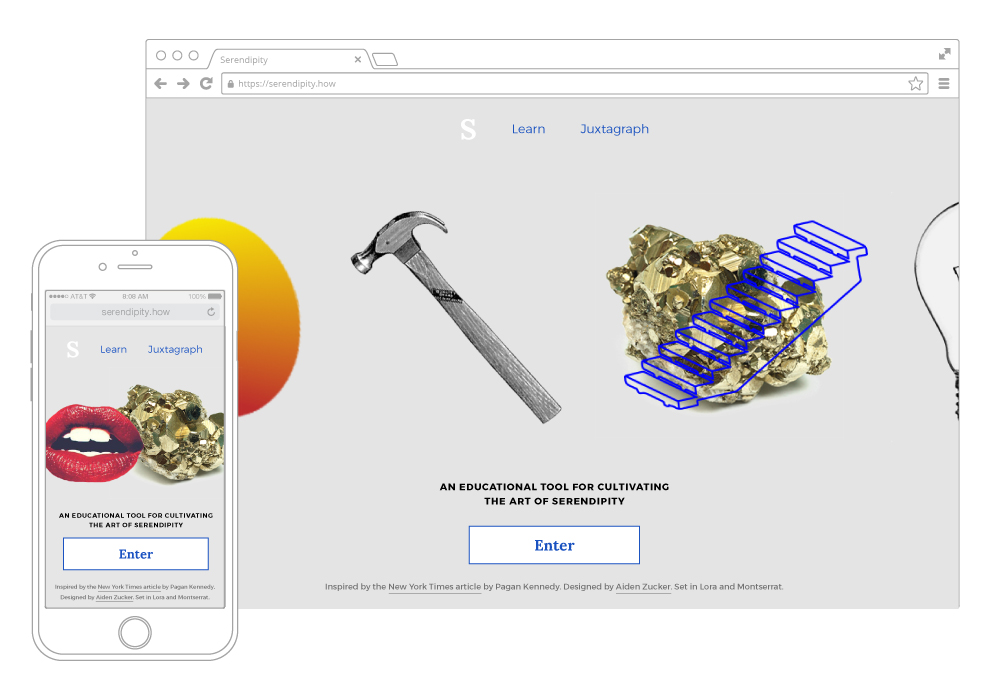
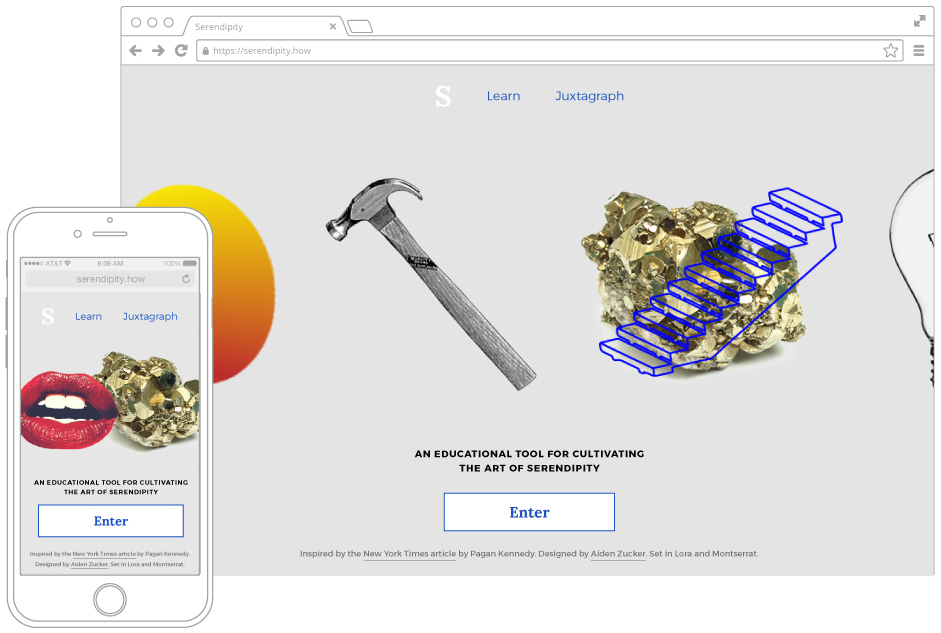
serendipit page has simplified typography to increase engagement. Also better writing

diff --git a/work/serendipity/index copy.html b/work/serendipity/index copy.html
@@ -1,0 +1,223 @@
+<!DOCTYPE html>
+<html>
+	<head>
+	 	<meta http-equiv="content-type" content="text/html; charset=UTF-8">   
+	 	<meta name="viewport" content="width=device-width, initial-scale=1.0"/>
+		<title>Aiden's Portfolio — Serendipity.how</title>
+		<meta name="description" content="Hi Internet, I'm Aiden, a designer">
+	    <meta name="keywords" content="Aiden,Zucker,Portfolio,Design">
+	    <meta name="author" content="Aiden Zucker">
+
+		<link rel="stylesheet" type="text/css" href="../../css/style-v4.css">
+
+		<link href="https://fonts.googleapis.com/css?family=Roboto+Mono|Roboto:300,400,400i,700" rel="stylesheet">
+
+		<link rel="apple-touch-icon" sizes="120x120" href="/apple-touch-icon.png">
+		<link rel="icon" type="image/png" href="/favicon-32x32.png" sizes="32x32">
+		<link rel="icon" type="image/png" href="/favicon-16x16.png" sizes="16x16">
+		<link rel="manifest" href="/manifest.json">
+		<link rel="mask-icon" href="/safari-pinned-tab.svg" color="#3490c5">
+		<meta name="theme-color" content="#3490c5">
+
+		<script>
+  (function(i,s,o,g,r,a,m){i['GoogleAnalyticsObject']=r;i[r]=i[r]||function(){
+  (i[r].q=i[r].q||[]).push(arguments)},i[r].l=1*new Date();a=s.createElement(o),
+  m=s.getElementsByTagName(o)[0];a.async=1;a.src=g;m.parentNode.insertBefore(a,m)
+  })(window,document,'script','https://www.google-analytics.com/analytics.js','ga');
+
+  ga('create', 'UA-38271185-3', 'auto');
+  ga('send', 'pageview');
+		</script>
+
+	</head>
+
+	<body>
+
+		<div class="header">
+			<div class="name">
+				<a href="/">Aiden Zucker</a>
+			</div>
+
+  			<div class="espanol"><a href="https://www.google.com/search?q=pr%C3%B3ximamente&biw=1440&bih=747&source=lnms&tbm=isch&sa=X&ved=0ahUKEwi44bLSwOnLAhXKuIMKHR6OCUoQ_AUIBigB" target="_blank">Español</a></div>
+		</div>
+		
+		<div class="nav-bar">
+			<a href="../poetics-of-space" class="previous-project">
+				<img src="../../img/arrow-left.png" alt="left-arrow">
+				<p>Previous project</p>
+			</a>
+
+			<a href="/" class="all-projects">
+				<img src="../../img/four-tiles-icon.png" alt="4 tiles icon">
+				<p>All work</p>
+			</a>			
+
+			<a href="../start-up-chile" class="next-project">
+				<p>Next project</p>
+				<img src="../../img/arrow-right.png" alt="right-arrow">
+			</a>
+		</div>
+
+
+
+		<div class="project-page-content">
+
+		<div class="cover-photo">
+			<!-- <img src="serendipity-cover.jpg"> -->
+			<img src="cover-photo-serendipity.jpg">
+		</div>
+
+<!-- 		<div class="project-name" id="serendipity-color">Serendipity.how</div>
+ -->		<!-- <div class="project-blurb">Experimental website and tool for thinking about serendipity in a new way</div> -->
+
+		<div class="project-body">
+			How might creative problem solvers think differently about innovation and creativity?
+			<br><br>
+			This question inspired two goals for the site: First, reframe serendipity as something that you can cultivate, and second, allow users to experience the joy of unexpected discoveries to they can seek it out in real life.
+			<br><br>
+			Explore the live site at:
+		</div>
+
+		<div class="big-link">
+			<a href="http://serendipity.how" target="_blank">serendipity.how</a>
+		</div>
+
+		<div class="centered-image">
+			<img src="juxtagraph-row.jpg">
+		</div>
+
+		<!-- <div class="centered-image">
+			<img src="ux-goals.png">
+		</div> -->
+
+		<div class="project-body">
+			The site architecture is seperated into "Learn" and "Juxtagraph" to reflect the two user experience goals.
+		</div>
+
+		<div class="centered-image">
+			<img src="site-map.png">
+		</div>
+
+		<div class="project-body">
+			The animated home page is designed to subconciously introduce the concept of overlapping objects and ideas.
+		</div>
+
+		<div class="centered-image">
+			<img src="home-responsive.jpg">
+		</div>
+
+		<div class="project-body">
+			Magritte and Dalí serve as formal precedents for using juxtaposition in the service of evoking ideas and emotions.
+		</div>
+
+		<div class="centered-image">
+			<img src="surrealist-placeholder.png">
+		</div>
+
+		<div class="caption">
+			From left: <strong>Salvador Dalí</strong>, <i>Lobster Telephone</i> (1936). <strong>René Magritte</strong>, <i>Key to Dreams</i> (1935).
+		</div>
+
+		<!-- <div class="project-body">
+			The first section explains the definition and steps of serendipity.
+		</div> -->
+
+		<!-- <div class="centered-image">
+			<img src="learn-screens.jpg">
+		</div> -->
+
+		<div class="project-body">
+			Responsive CSS rules adapt content to all screen sizes.
+		</div>
+
+		<div class="centered-image">
+			<img src="responsive-xray.jpg">
+		</div>
+
+		<div class="project-body">
+		The purpose of the second section of the site is to show people the joy of unexpected discoveries.
+		</div>
+
+		<div class="centered-image">
+			<img src="juxtagraph-responsive.jpg">
+		</div>
+
+		<div class="project-body">
+			<!-- The user flow is designed to make the creation of juxtagraphs easy and delightful. -->
+			Once a juxtagraph is made, it's added to a public gallery of every juxtagraph ever made on the site. 
+		</div>
+
+		<div class="centered-image">
+			<img src="juxtagraph-sequence.jpg">
+		</div>
+
+		<div class="project-body">
+			The randomized image queue currently has 111 images, chosen for the following criteria:
+			<ul>
+				<li>Singularity of the image</li>
+				<li>Multiple or metaphorical interpretations</li>
+				<li>Aesthetically and emotionally compelling</li>
+			</ul>
+		</div>
+
+		<div class="project-body">
+			[placeholder for compilation of database images]
+		</div>
+
+		<div class="project-body">
+			<a href="mailto:aidenzucker@gmail.com?Subject=Here's%20an%20image%20to%20add%20to%20serendipity.how" target="_blank">Submit an image to the database</a>
+		</div>
+
+		<div class="juxtagraph-circle">
+			<img src="juxtagraph-circle.jpg">
+
+			<div class="big-link">
+				<a href="http://serendipity.how/juxtagraph" target="_blank">Make a juxtagraph</a>
+			</div>
+		</div>
+
+		<!-- <div class="project-body">
+			Stuff about sharing on social media
+		</div>
+
+		<div class="project-body">
+			[placeholder for share screen]
+		</div>
+
+		<div class="project-body">
+			[placeholder for conculsion paragraph about purpose and idea]
+		</div> -->
+
+		<div class="project-body">
+			Serendipity.how was concieved of, designed and built in 9 weeks as the capstone of my BFA in Communication Design at Washington University in St. Louis.
+			<br><br>
+			It would not have been possible without generous support from Penina Acayo, Ze'ev Lailari, Jonathan Hanahan, Dan Borstleman, Keenan Zucker and all of my studio mates.
+			<br><br>
+			Thanks for reading! <a href="http://serendipity.how" target="_blank">Now go check it out.</a>
+		</div>
+
+			
+		</div> <!-- End of project-page-content --> 
+
+		<div class="nav-bar">
+			<a href="../poetics-of-space" class="previous-project">
+				<img src="../../img/arrow-left.png" alt="left-arrow">
+				<p>Previous project</p>
+			</a>
+
+			<a href="/" class="all-projects">
+				<img src="../../img/four-tiles-icon.png" alt="4 tiles icon">
+				<p>All work</p>
+			</a>			
+
+			<a href="../start-up-chile" class="next-project">
+				<p>Next project</p>
+				<img src="../../img/arrow-right.png" alt="right-arrow">
+			</a>
+		</div>
+
+
+
+	</body>
+
+</html>

diff --git a/css/style-v4.css b/css/style-v4.css
@@ -15,7 +15,6 @@ body {
 	margin: 0px;
 }
 
-
 /*=====================================================================
   HEADER W/ NAME AND NAV
   =====================================================================*/
@@ -577,7 +576,7 @@ footer nav a:hover{
 	right: 0;
 
 	margin-top: 50px;
-	margin-bottom: 50px;
+	margin-bottom: 10px;
 
 	padding-left: 25px;
 	padding-right: 25px;
@@ -639,11 +638,18 @@ footer nav a:hover{
 	border-bottom: 4px solid orange;
 }
 
-.big-link:hover{
+.big-link a:hover{
 	opacity: .8;
 }
 
 /*FOR SERENDIPITY.HOW*/
+
+.caption{
+	font-size: 14px;
+    margin-top: -30px;
+    opacity: 0.45;
+    padding-bottom: 50px;
+}
 
 .three-across img{
 	max-width: 900px;
